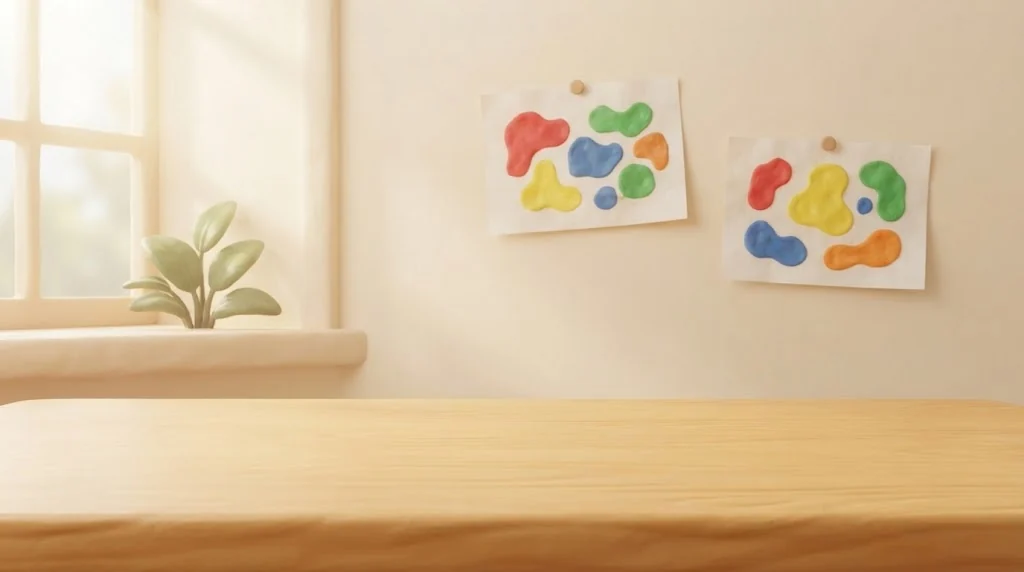
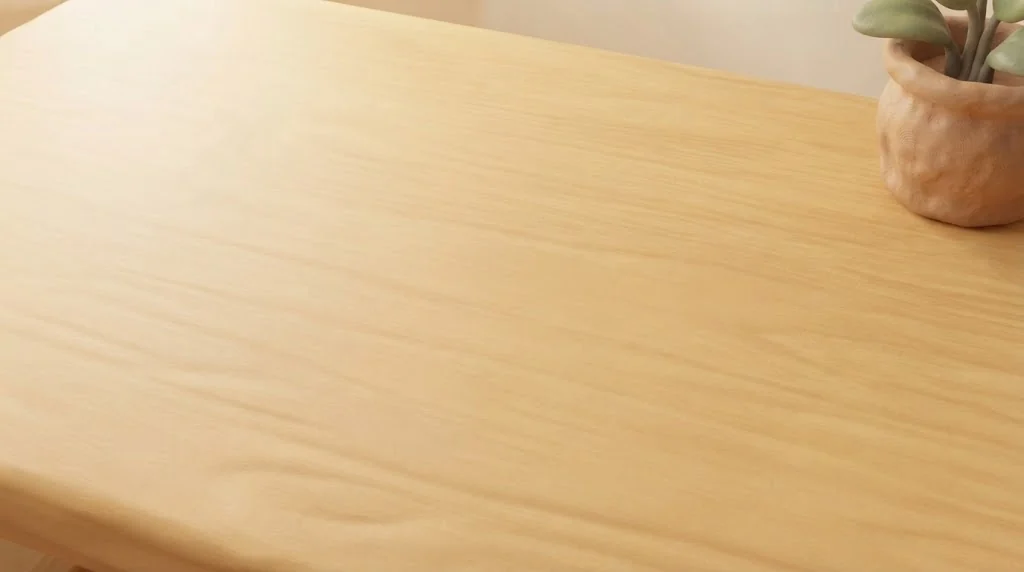
feat(krea): pass-3 art — the studio is a table seen from above; bright green + mint crayons, rainbow, chunky easel
The wall-and-window studio left the tools with nothing to lie on except a strip along the bottom, which
cost the paper ~35% of its area in landscape. The new backdrop is a honey-wood table seen from above
filling the screen, so the tools stand in a column beside the paper on any wide screen (paper back to
660×496 at 1024×768) and in rows under it on a tall one, lying on the table either way. The wall
render is kept as art-src/krea/backdrop-wall.jpg.

Crayons: green came out dark (almost black-dark) and light green yellow; the re-renders are a bright
grass green and a soft mint, keyed with measured thresholds (green's wax sits at excess 60–100 against a
160–190 screen, so every threshold is above the wax). The drawn colours follow the crayons as rendered
(groen #47AD2E, lysegroen #8ED6A6) — a crayon draws the colour the child sees on it. The rainbow crayon
has a narrow wrapper now, and the easel is a chunkier one.

Verified rung 1 + rung 2 (WebKit iPad landscape): the full interaction probe unchanged; four viewports.

diff --git a/src/components/krea/FriTegningGame.tsx b/src/components/krea/FriTegningGame.tsx
@@ -12,7 +12,7 @@ import { paletteFor } from '../../config/kreaPalette'
 import { KREA_COLOR_NAME, NEW_PAPER_LINE, colorsUsedLine } from '../../config/kreaPhrases'
 import { hintPulse } from '../../theme/idleMotion'
 import { DEV } from '../../utils/devHarness'
-import { PHONE_LANDSCAPE, PHONE_PORTRAIT } from '../../theme/phoneMedia'
+import { PHONE_PORTRAIT } from '../../theme/phoneMedia'
 import DrawingSurface from './canvas/DrawingSurface'
 import {
   addStroke,
@@ -57,9 +57,10 @@ type Phase = 'drawing' | 'alive' | 'admire'
 const FriTegningGame: React.FC = () => {
   useOccludeWorld()
   const reduce = useReducedMotion()
-  // A phone on its side is the one place the paper must win over "everything lies on the table": with
-  // two rows under it the paper was 252×189 at 844×390, so there the tools stand in columns beside it.
-  const phoneLandscape = useMediaQuery(PHONE_LANDSCAPE)
+  // The studio is a table seen from above, so the tools lie on it wherever they go. On a wide screen they
+  // stand in a column beside the paper and the paper gets the height (a row under it cost ~35% of its
+  // area in landscape); on a tall screen they lie in rows under it.
+  const landscape = useMediaQuery('(orientation: landscape)')
   const audio = useSimplifiedAudioHook({ componentId: 'FriTegningGame', autoInitialize: false })
   const level = useDifficulty('krea')
   const palette = paletteFor(KREA_PALETTE[level].palette)
@@ -219,7 +220,7 @@ const FriTegningGame: React.FC = () => {
       sx={{
         gridArea: 'side',
         display: 'flex',
-        flexDirection: phoneLandscape ? 'column' : 'row',
+        flexDirection: landscape ? 'column' : 'row',
         alignItems: 'center',
         justifyContent: 'space-between',
         gap: 'clamp(8px, 2vmin, 16px)',
@@ -263,19 +264,18 @@ const FriTegningGame: React.FC = () => {
           gap: 'clamp(8px, 2vmin, 18px)',
           // Reserved space, never a tuned percentage: the tools and the side column take what they
           // need and the paper is the remainder (layout-contract.md).
-          // Every tool LIES ON THE TABLE, in both orientations: paper above, then the tools and the
-          // crayons in rows across the table top. A tool column beside the paper floated over the wall
-          // and the window in landscape (owner review of the integrated art, 2026-10-16).
+          // Reserved space, never a tuned percentage: the tools and the side pair take what they need and
+          // the paper is the remainder (layout-contract.md).
           gridTemplateColumns: 'minmax(0, 1fr) auto',
           gridTemplateRows: 'minmax(0, 1fr) auto auto',
           gridTemplateAreas: '"paper paper" "tools side" "pal pal"',
-          // A phone in portrait can't fit six tools AND the side pair on one 343 px row (measured: the
-          // row hung 20 px off the left edge), so "Nyt papir" and done get their own row.
-          [PHONE_LANDSCAPE]: {
+          '@media (orientation: landscape)': {
             gridTemplateColumns: 'auto minmax(0, 1fr) auto',
             gridTemplateRows: 'minmax(0, 1fr) auto',
             gridTemplateAreas: '"tools paper side" "pal pal pal"',
           },
+          // A phone in portrait can't fit six tools AND the side pair on one 343 px row (measured: the
+          // row hung 20 px off the left edge), so "Nyt papir" and done get their own row.
           [PHONE_PORTRAIT]: {
             gridTemplateColumns: 'minmax(0, 1fr)',
             gridTemplateRows: 'minmax(0, 1fr) auto auto auto',
@@ -285,7 +285,7 @@ const FriTegningGame: React.FC = () => {
         }}
       >
         <Box sx={{ gridArea: 'tools', display: 'flex', alignItems: 'center', justifyContent: 'center', minHeight: 0 }}>
-          <ToolRow tool={tool} color={color} onTool={pickTool} onUndo={doUndo} canUndo={canUndo(drawing)} disabled={!drawingEnabled} direction={phoneLandscape ? 'column' : 'row'} />
+          <ToolRow tool={tool} color={color} onTool={pickTool} onUndo={doUndo} canUndo={canUndo(drawing)} disabled={!drawingEnabled} direction={landscape ? 'column' : 'row'} />
         </Box>
         <Paper paperRef={paperRef}>
           <DrawingSurface

diff --git a/src/components/krea/studio/StudioScene.tsx b/src/components/krea/studio/StudioScene.tsx
@@ -4,8 +4,9 @@ import { KREA_ART } from '../../../assets/games/krea'
 
 // Krea's own full-bleed art studio (Krea PRD-01 §2.3.13) — like Fyld Båden's harbour it paints the
 // WHOLE screen and the persistent world is occluded underneath (`useOccludeWorld` in each game).
-// ONE studio on every skin, like all game art: the owner's render (batch A), a cream wall with a
-// daylight window on the left and a honey-wood table across the lower part.
+// ONE studio on every skin, like all game art: the owner's render (pass 3, N2), a honey-wood craft
+// table seen FROM ABOVE filling the screen, so the paper, the crayons and every tool lie ON it in any
+// layout. (The first studio was a wall seen straight on; it is kept as art-src/krea/backdrop-wall.jpg.)
 //
 // `position: absolute` against GameShell's isolated root (z -1), never `fixed` (PersistentWorld's note:
 // Chrome blanks fixed layers during touch pans). Static — nothing moves, so nothing to pause.
@@ -20,13 +21,12 @@ export const StudioBackdrop: React.FC = () => (
       zIndex: -1,
       overflow: 'hidden',
       pointerEvents: 'none',
-      // The wall's own colour, so a slow first paint is a calm cream rather than a flash of white.
-      backgroundColor: '#F1E4CF',
+      // The wood's own colour, so a slow first paint is warm wood rather than a flash of white.
+      backgroundColor: '#E9C68E',
       backgroundImage: `url(${KREA_ART.backdrop})`,
       backgroundRepeat: 'no-repeat',
       backgroundSize: 'cover',
-      // Keep the window (left) in frame on a narrow screen, and the table's front edge at the bottom.
-      backgroundPosition: '20% 100%',
+      backgroundPosition: '50% 60%',
     }}
   />
 )

diff --git a/src/components/krea/canvas/brushes.ts b/src/components/krea/canvas/brushes.ts
@@ -13,8 +13,10 @@ export const CRAYON_HEX: Record<CrayonColor, string> = {
   roed: '#E53935',
   orange: '#FB8C00',
   gul: '#FDD835',
-  lysegroen: '#9CCC65',
-  groen: '#2E9D44',
+  // Matched to the crayons as rendered (pass 3): light green is a soft MINT, green a bright grass
+  // green — a crayon must draw the colour the child sees on it.
+  lysegroen: '#8ED6A6',
+  groen: '#47AD2E',
   lyseblaa: '#4FC3F7',
   blaa: '#1E63D6',
   lilla: '#8E44AD',
